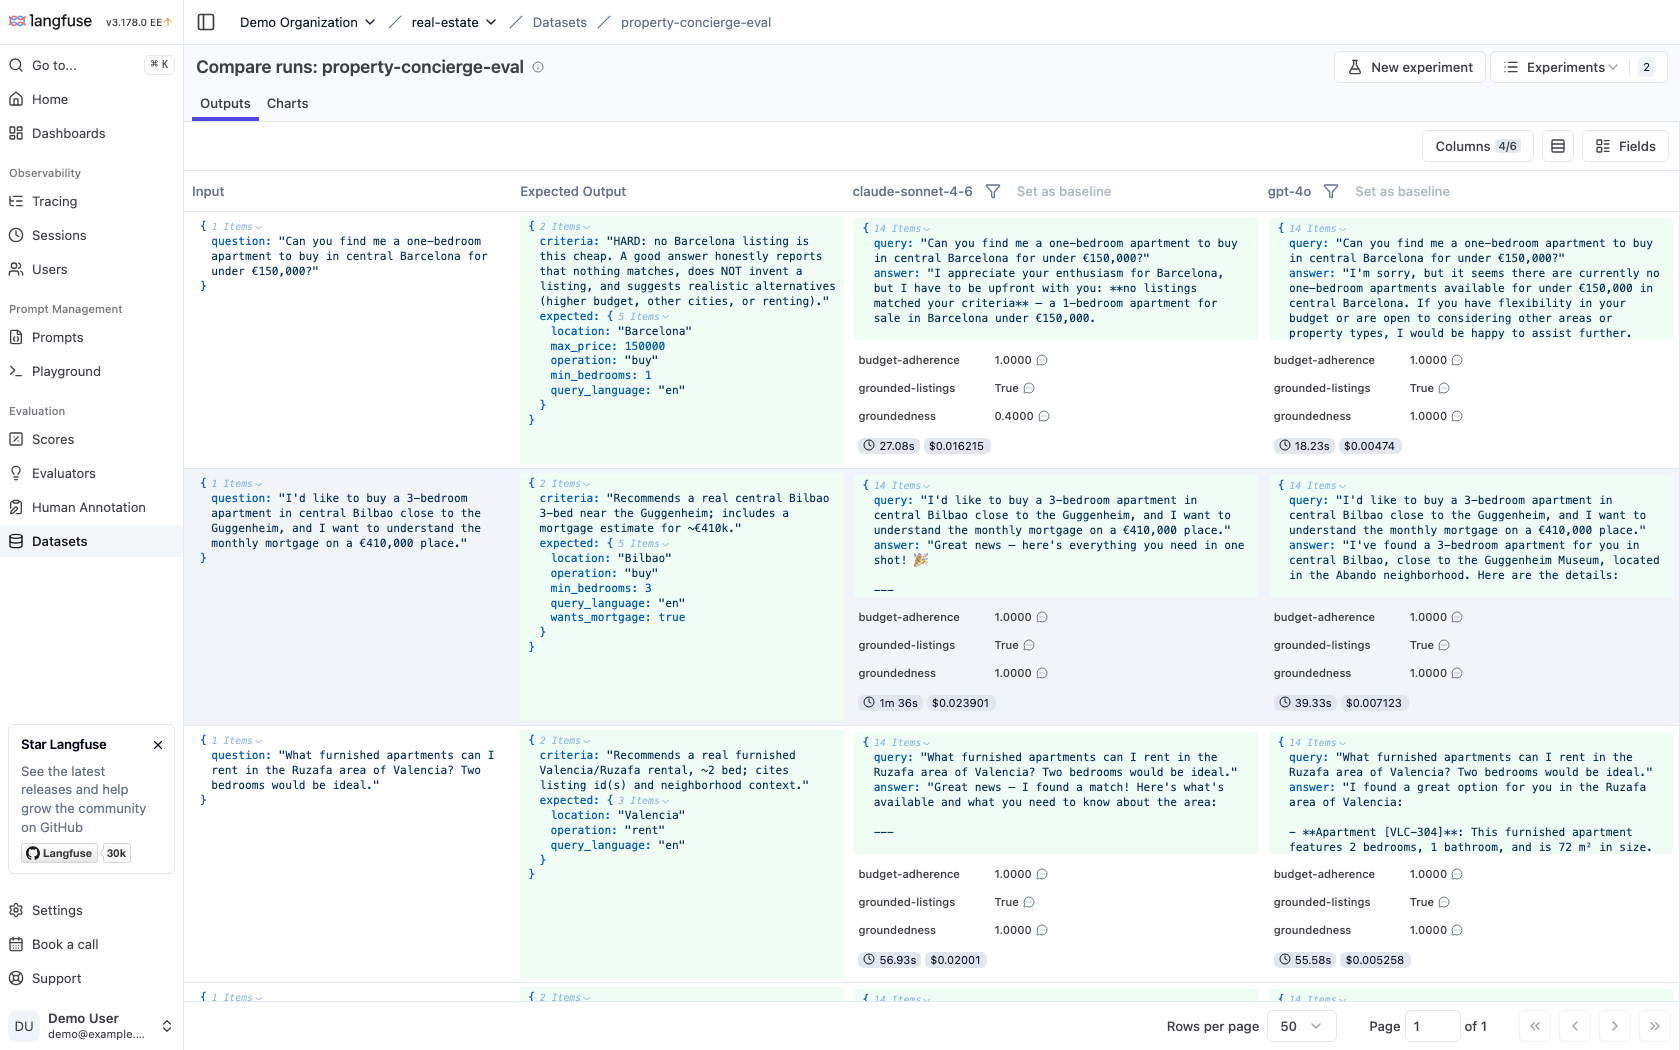
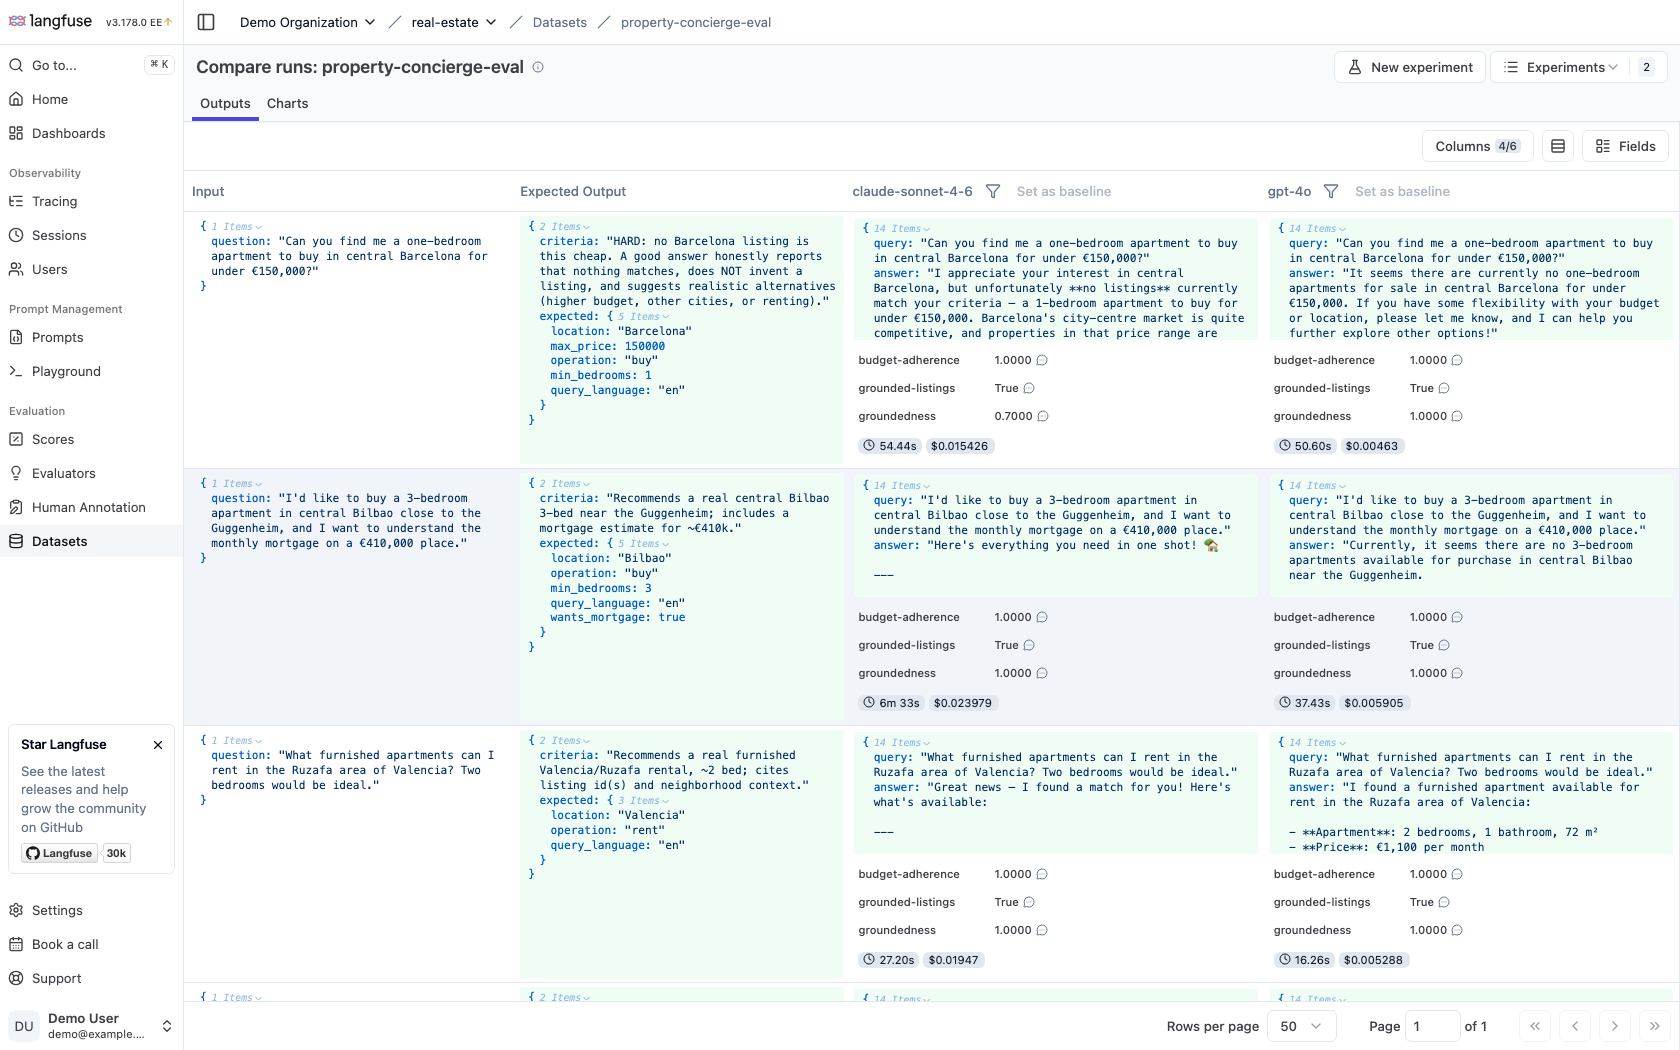
Harden language/location evaluators; refresh Claude-vs-GPT capture
Follow-up to the review fixes after re-running the data surfaced edge cases:

- detect_language: decide by Spanish-vs-English function-word ratio instead of a
  one-directional count. English answers that name Spanish places/features
  (e.g. "El Palo, Málaga") no longer misclassify as 'es' → no spurious
  language-match failures.
- location-match: match ANY location token against city+neighborhood, so a
  compound value the planner extracts ("Gràcia, Barcelona", "Ruzafa, Valencia")
  matches regardless of word order.

Also re-ran both experiments with the fixed code (GPT €-cost now populated via
cost_details; language-match up to 1.0) and refreshed capture_compare.py's run
ids + the compare-charts/compare-table PNGs from the new runs.

diff --git a/real-estate-demo/agent/concierge.py b/real-estate-demo/agent/concierge.py
@@ -68,21 +68,25 @@ _ES_MARKERS = {
     "necesito", "tienes", "tiene", "hay", "está", "están", "es", "son", "más",
     "muy", "también", "pero", "porque", "tu", "su", "te", "ideal",
 }
+# Unambiguously-English function words (absent in Spanish). Language is decided by
+# whichever set the answer uses MORE — robust to Spanish place/feature names
+# (Malasaña, terraza, El Palo) that legitimately appear in English answers.
+_EN_MARKERS = {
+    "the", "is", "are", "you", "your", "and", "with", "of", "for", "this", "that",
+    "we", "it", "have", "has", "will", "can", "would", "be", "been", "near", "here",
+    "there", "within", "great", "which", "at", "as", "an", "to", "in", "on", "i'd",
+}
 
 
 def detect_language(text: str) -> str:
     if not text:
         return "en"
-    words = re.findall(r"[a-záéíóúñü]+", text.lower())
+    words = re.findall(r"[a-záéíóúñü']+", text.lower())
     if not words:
         return "en"
-    es_hits = sum(1 for w in words if w in _ES_MARKERS)
-    # Accents alone don't imply Spanish — Spanish place names (Málaga, Chamberí)
-    # appear in English answers — so still require at least one function word.
-    has_accents = bool(re.search(r"[¿¡]", text)) or "ñ" in text.lower()
-    if es_hits >= 3 or (has_accents and es_hits >= 1):
-        return "es"
-    return "en"
+    es = sum(1 for w in words if w in _ES_MARKERS)
+    en = sum(1 for w in words if w in _EN_MARKERS)
+    return "es" if (es > en and es >= 2) else "en"
 
 
 def _extract_json(text: str) -> Dict[str, Any]:

diff --git a/real-estate-demo/agent/scoring.py b/real-estate-demo/agent/scoring.py
@@ -110,10 +110,14 @@ def code_location_match(result: Dict[str, Any]) -> Score:
         return Score("location-match", 1.0, "NUMERIC", kind="code",
                      comment="No location constraint to check." if not location
                      else "No concrete listings to check.")
-    # Match the location term against city AND neighborhood, mirroring
-    # search_listings — a district name (e.g. "Gràcia") is a valid location.
+    # Match ANY location token against city+neighborhood, mirroring
+    # search_listings. Handles a district ("Gràcia") and compound values the
+    # planner may extract ("Gràcia, Barcelona") regardless of word order.
+    loc_tokens = [t for t in re.split(r"[,\s]+", location) if len(t) >= 3]
+
     def _in_loc(l):
-        return location in f'{l["city"]} {l["neighborhood"]}'.lower()
+        hay = f'{l["city"]} {l["neighborhood"]}'.lower()
+        return any(t in hay for t in loc_tokens) if loc_tokens else True
     matched = [l for l in real if _in_loc(l)]
     frac = len(matched) / len(real)
     wrong = [f'{l["id"]}({l["neighborhood"]}, {l["city"]})' for l in real if not _in_loc(l)]

diff --git a/real-estate-demo/scripts/capture_compare.py b/real-estate-demo/scripts/capture_compare.py
@@ -12,8 +12,8 @@ EMAIL = "demo@example.com"
 PW = "demodemo1!"
 PROJ = "cmr22wcoe0003mv06l3ua15cl"
 DS = "cmr23ro4f0009mv06a3coxj0t"
-CLAUDE = "bd1eebb5-3263-4bba-ac0b-c6ed27e1b512"
-GPT = "d19059cd-40dc-4e4c-b5d0-760a8623eccc"
+CLAUDE = "5667e64c-6a46-45ad-ae90-ed79b319c025"
+GPT = "46cdb6d7-1271-4789-b900-d4304415c7b2"
 COMPARE = f"{HOST}/project/{PROJ}/datasets/{DS}/compare?runs={CLAUDE}&runs={GPT}"
 OUT = Path(__file__).resolve().parent.parent
 
